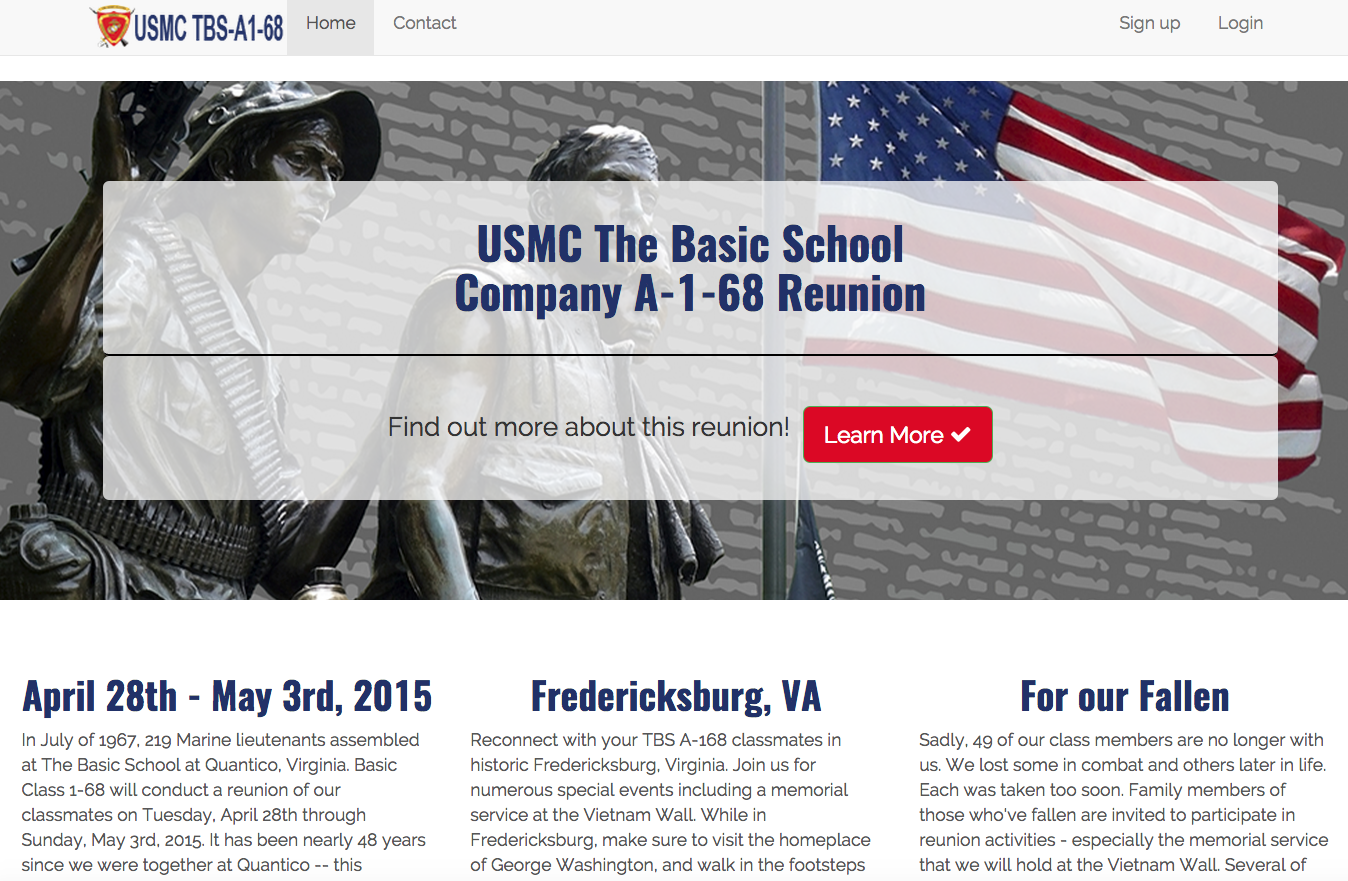
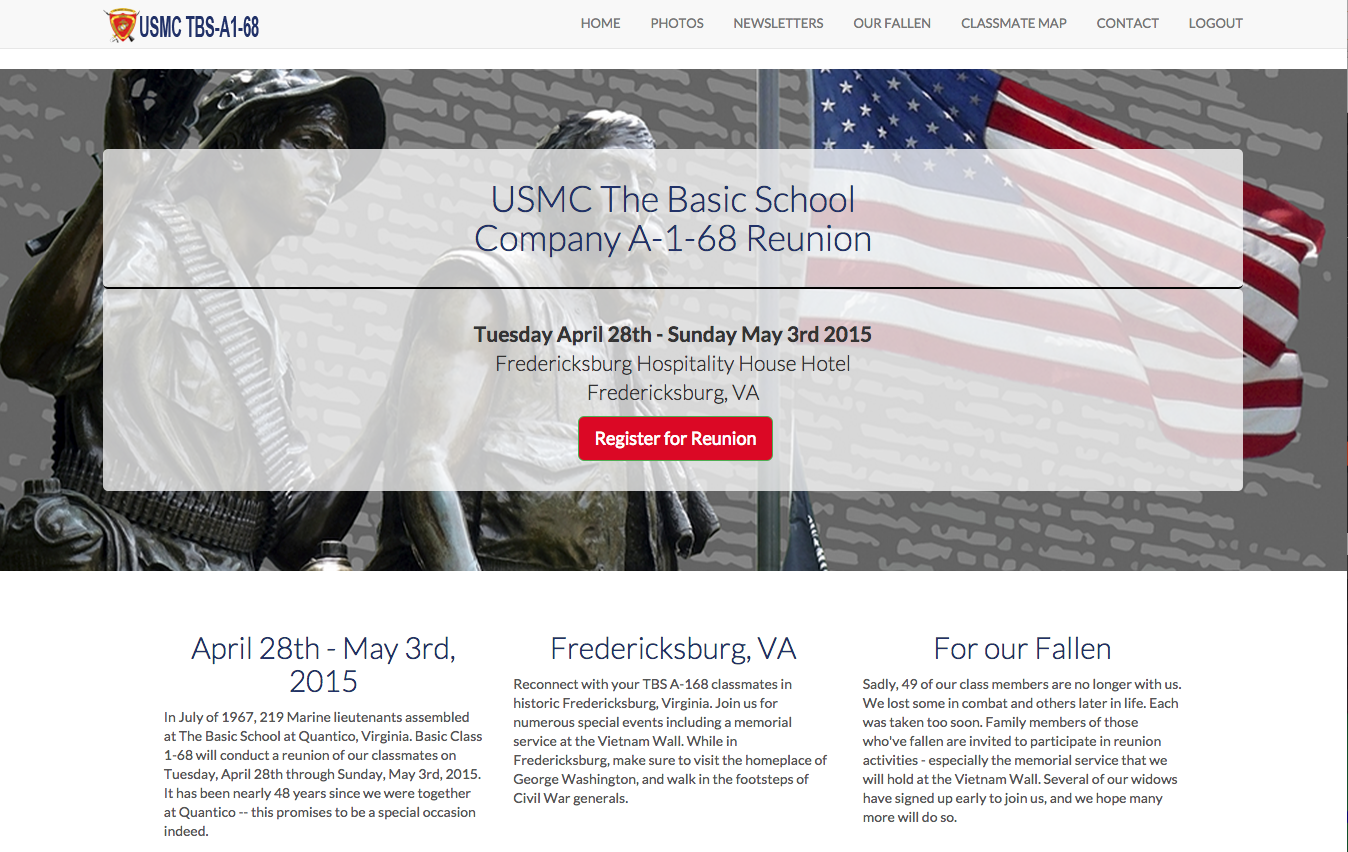
README updates and a new home page image for the docs.

diff --git a/README.md b/README.md
@@ -1,6 +1,6 @@
 ## tbsa168Y USMC Reunsion Web Application
 
-This application is for a military reunion.
+This application is for a mobile-friendly, military reunion website.
 
 It uses:
 
@@ -41,7 +41,8 @@ $ npm install --no-bin-links
 $ bower install
 ```
 ### Configuration
-Setup the following (2) environment variables for MailGun:
+Setup a MailGun account, and define your domain.  Then setup the following
+environment variables for MailGun on your server:
 
 - MGMAIL_KEY - your mailgun API key
 - MGMAIL_DOMAIN - your mailgun Domain name
